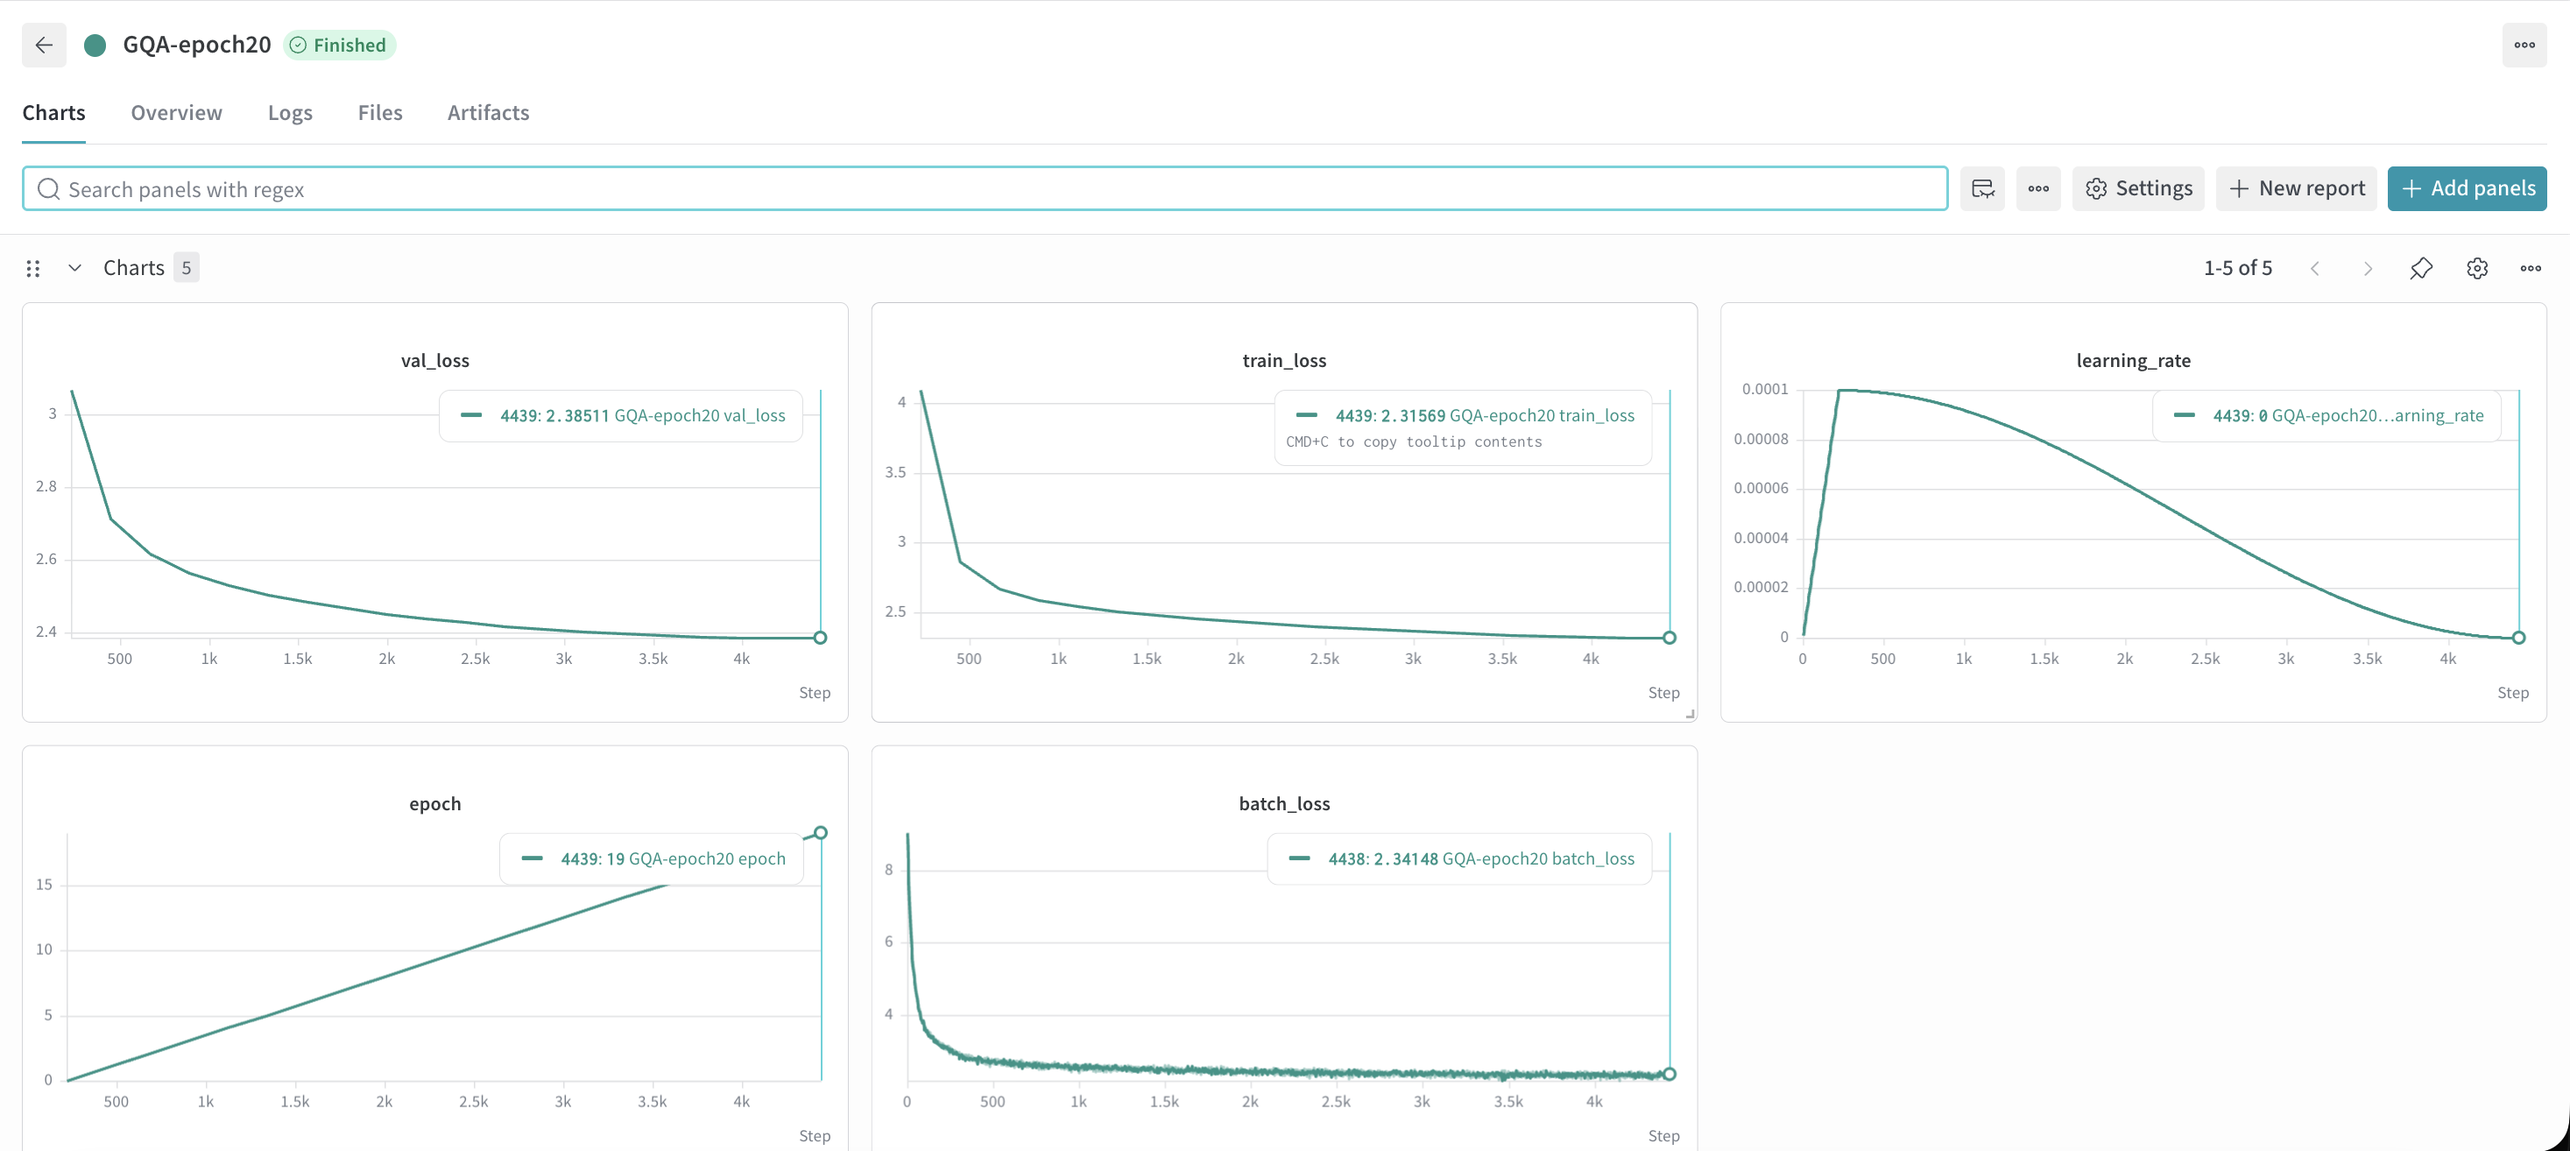
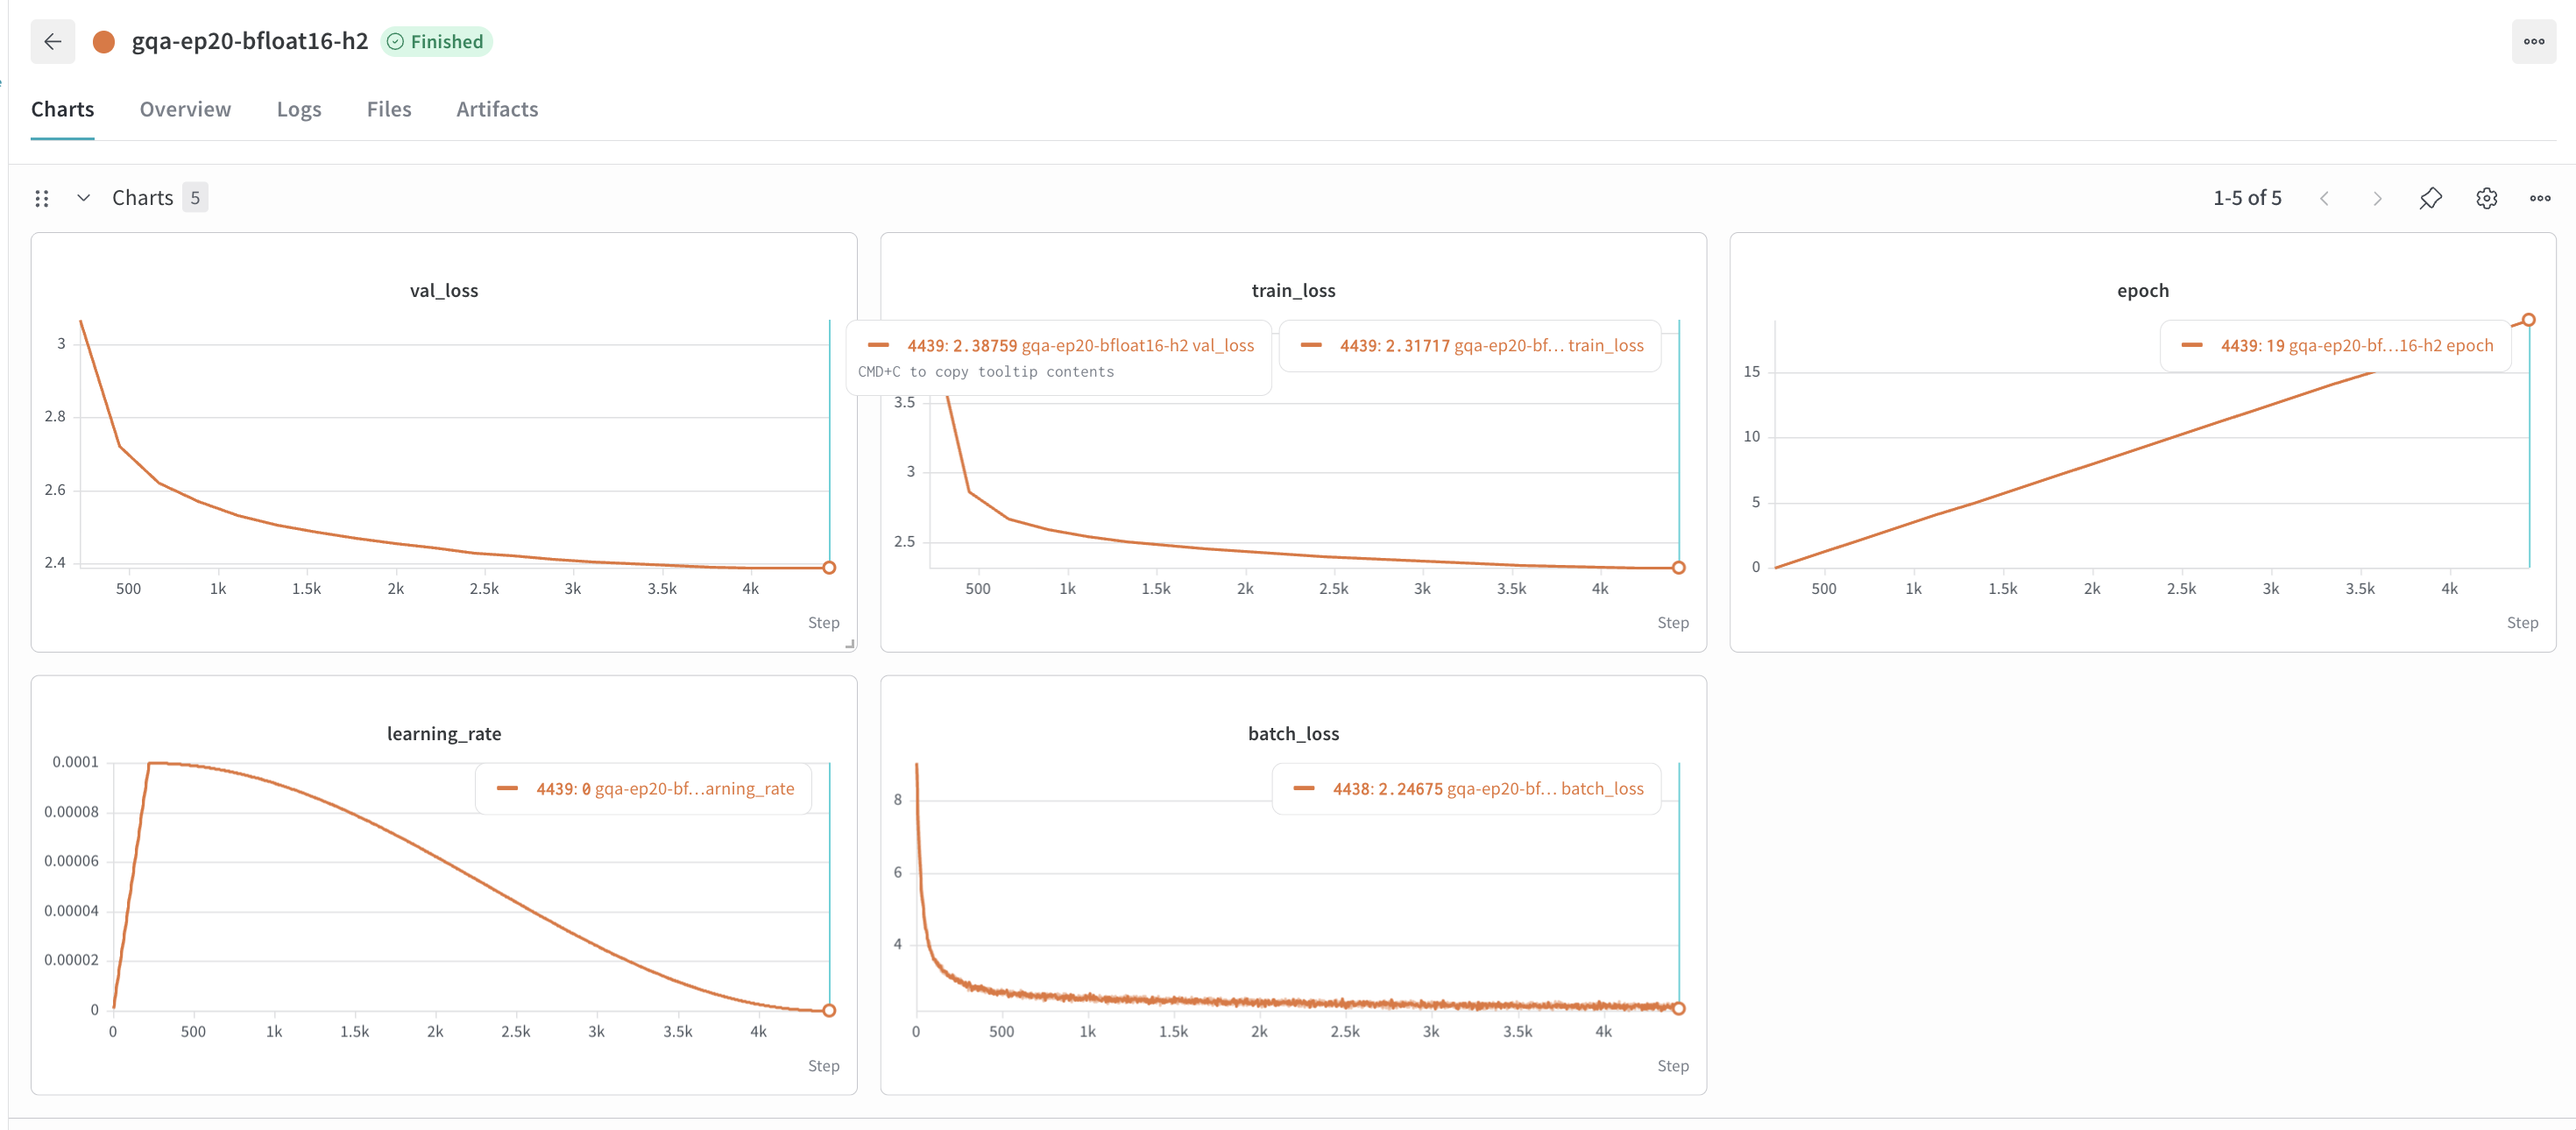
update final results

diff --git a/modules/config.py b/modules/config.py
@@ -11,7 +11,7 @@ EMBED_DIM = 384
 NUM_HEADS = 6
 NUM_LAYERS = 6
 MLP_RATIO = 4
-NUM_KV_HEADS = 3
+NUM_KV_HEADS = 2
 
 SEQ_LEN = 256
 BATCH_SIZE = 64

diff --git a/readme.md b/readme.md
@@ -9,10 +9,13 @@ Trained on WikiText-103, tokenized with a custom BPE tokenizer (8000 vocab).
 ## Setup
 
 - ~20-25M parameter model: `embed_dim=384`, `num_heads=6`, `num_layers=6`
-- Trained on GPU Cluster, single NVIDIA A40
+- Trained on GPU cluster, single NVIDIA A40
 - 20 epochs, AdamW with weight decay (excluding biases/norms), warmup +
   cosine LR schedule, gradient clipping
-- GQA uses `num_kv_heads=3` (2 query heads share each KV pair) tuned hyperparameter; 
+- GQA swept over `num_kv_heads=3` (2 query heads per KV pair) and
+  `num_kv_heads=2` (3 query heads per KV pair); `num_kv_heads=2` was kept
+  as the final config sinced its val loss was close to the 3-head version while
+  sharing KV across more query heads
 - MQA uses a single shared KV pair across all heads
 
 ## Results
@@ -21,27 +24,33 @@ Trained on WikiText-103, tokenized with a custom BPE tokenizer (8000 vocab).
 
 | Attention | Train loss | Val loss |
 |---|---|---|
-| MHA | ~2.30 | ~2.35 |
-| GQA | ~2.31 | ~2.38 |
+| MHA | ~2.29 | ~2.36 |
+| GQA (3 heads) | ~2.31 | ~2.38 |
+| GQA (2 heads) | ~2.32 | ~2.39 |
 | MQA | ~2.33 | ~2.40 |
 
 ### Test set (held-out, unbiased)
 
+Final checkpoint (best val loss) per attention type, evaluated on the
+held-out test set. GQA is the `num_kv_heads=2` config.
+
 | Attention | Test loss |
 |---|---|
 | MHA | 2.376 |
-| GQA | 2.390 |
-| MQA | 2.409 |
+| GQA (2 heads) | 2.394 |
+| MQA | 2.403 |
 
 ### Inference benchmark (100 tokens, batch size 1, A40)
 
 ![Inference speed and memory comparison](./docs/images/perf_comparison.png)
 
+GQA is the `num_kv_heads=2` config.
+
 | Attention | Tokens/sec | Peak memory (MB) |
 |---|---|---|
-| MHA | 142.389 | 69.575 |
-| GQA | 194.533 | 65.023 |
-| MQA | 201.891 | 60.989 |
+| MHA | 137.442 | 69.575 |
+| GQA (2 heads) | 194.012 | 63.167 |
+| MQA | 202.249 | 60.989 |
 
 Full training curves and test-set evaluation plots: [docs/results.md](./docs/results.md)
 
@@ -49,17 +58,19 @@ Full training curves and test-set evaluation plots: [docs/results.md](./docs/res
 
 MHA gives the best loss but is the slowest to generate from. MQA is the
 fastest and lightest but has the worst loss. GQA lands close to MQA on
-speed while staying close to MHA on quality — matches why GQA is the
+speed while staying close to MHA on quality matches why GQA is the
 common choice in real models (Llama 2/3, Mistral) rather than either
-extreme.
+extreme. Within GQA, dropping from 3 to 2 KV heads cost almost nothing
+in loss while closing more of the speed/memory gap to MQA, which is why
+it's the config kept here.
 
 ## What this project covered
 
 - RoPE positional embeddings, implemented and verified from the formulas
 - KV caching for autoregressive decoding, with correct position offsets
 - MHA, GQA, and MQA attention, all sharing the same RoPE/cache logic
-- Training loop: checkpointing (resumable), LR warmup + cosine decay,
-  weight decay split (no decay on biases/norms), gradient clipping
+- Training loop: checkpointing, LR warmup + cosine decay, weight decay
+  split (no decay on biases/norms), gradient clipping
 - Proper weight initialization for deep residual networks (GPT-2 style)
   — fixed an issue where the model started at a much higher loss than
   expected due to default PyTorch init not accounting for residual depth

diff --git a/docs/results.md b/docs/results.md
@@ -9,7 +9,10 @@ trained from scratch on WikiText-103.
 ![MHA training](./images/mha.png)
 
 ### GQA
-![GQA training](./images/gqa-head3.png)
+3 KV heads
+![GQA training 3 KV heads](./images/gqa-head3.png)
+2 KV heads
+![GQA training 2 KV heads](./images/gqa-head2.png)
 
 ### MQA
 ![MQA training](./images/mqa.png)
@@ -19,13 +22,13 @@ trained from scratch on WikiText-103.
 Final checkpoint (best val loss) for each model, evaluated on the held-out
 test set.
 
-![Test set evaluation](./images/evaluation_results.png)
+![Test set evaluation](./images/test_results.png)
 
 | Attention | Test loss |
 |---|---|
 | MHA | 2.376 |
-| GQA | 2.390 |
-| MQA | 2.409 |
+| GQA | 2.394 |
+| MQA | 2.403 |
 
 ## Inference benchmark
 
@@ -35,9 +38,9 @@ test set.
 
 | Attention | Tokens/sec | Peak memory (MB) |
 |---|---|---|
-| MHA | 142.389 | 69.575 |
-| GQA | 194.533 | 65.023 |
-| MQA | 201.891 | 60.989 |
+| MHA | 137.442 | 69.575 |
+| GQA | 194.012 | 63.167 |
+| MQA | 202.249 | 60.989 |
 
 ## Takeaway
 
